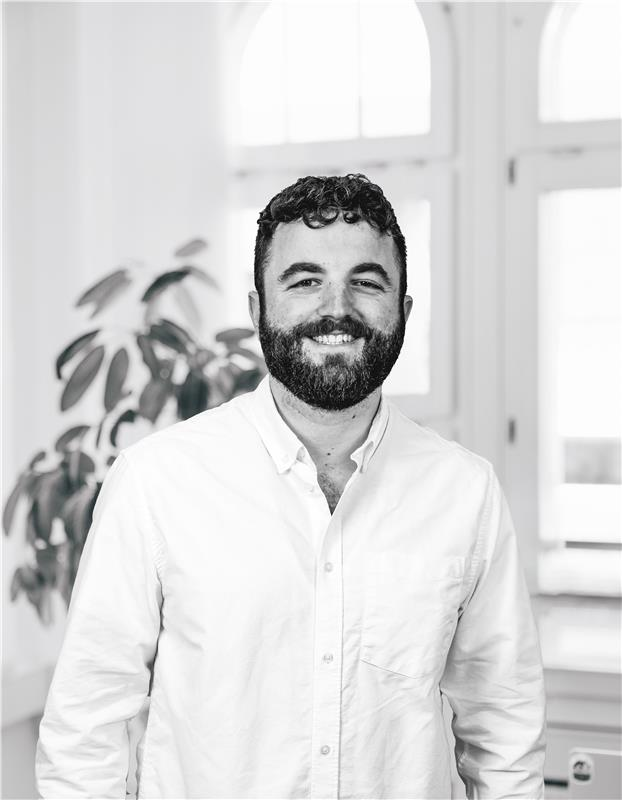
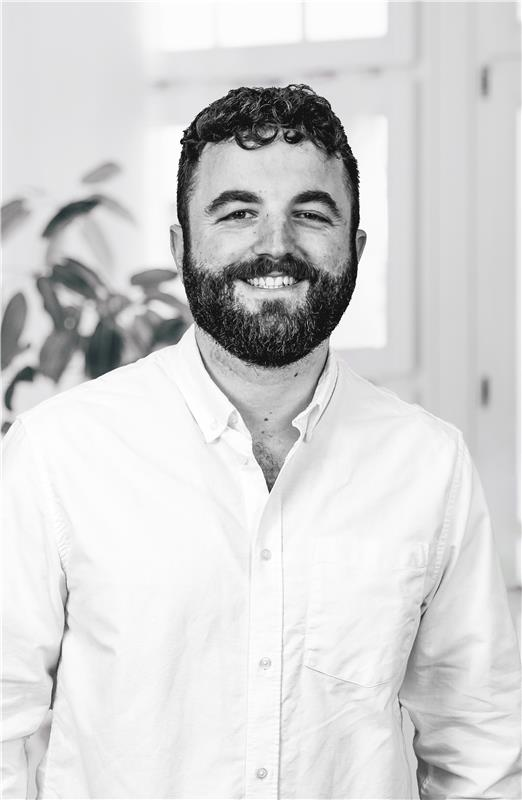
update photos

diff --git a/pages/agency.js b/pages/agency.js
@@ -6,7 +6,7 @@ const Agency = () => {
       title: "Co-Founder & strategy ekspert",
       description:"Spezialgebiet: Strategie, Digitalisierung und Verkauf/Marketing",
       shortDescription:"“Ich glaube daran, dass jede Herausforderung eine Chance für Innovation und Wachstum ist. Gemeinsam mit meinem Team täglich Lösungen zu schaffen, die nicht nur funktionieren, sondern nachhaltig beeindrucken und begeistern, ist für mich ein Privileg.”",
-      background: "/images/Fisnik-theeksperts.jpg",
+      background: "/images/Fisnik-theeksperts.png",
       linkedin: "https://www.linkedin.com/in/fisnik-salihu/",
       email:"fisnik.salihu@the-eksperts.com",
     },
@@ -25,7 +25,7 @@ const Agency = () => {
       title: "Co-Founder & business ekspert",
       description:"Spezialgebiet: Finanzen, Business Analyse, Projekt Leitung",
       shortDescription:"“Grosse Dinge entstehen, wenn man Schritt für Schritt vorgeht und auf eine Zusammenarbeit baut, die von Vertrauen getragen wird. Nachhaltige Lösungen entstehen, wenn Ansätze wirtschaftlich durchdacht und langfristig tragfähig sind.”",
-      background: "/images/Pishtar-theeksperts.jpg",
+      background: "/images/Pishtar-theeksperts.png",
       linkedin: "https://www.linkedin.com/in/pishtar-salihu-747b64259/",
       email:"pishtar.salihu@the-eksperts.com",
 
